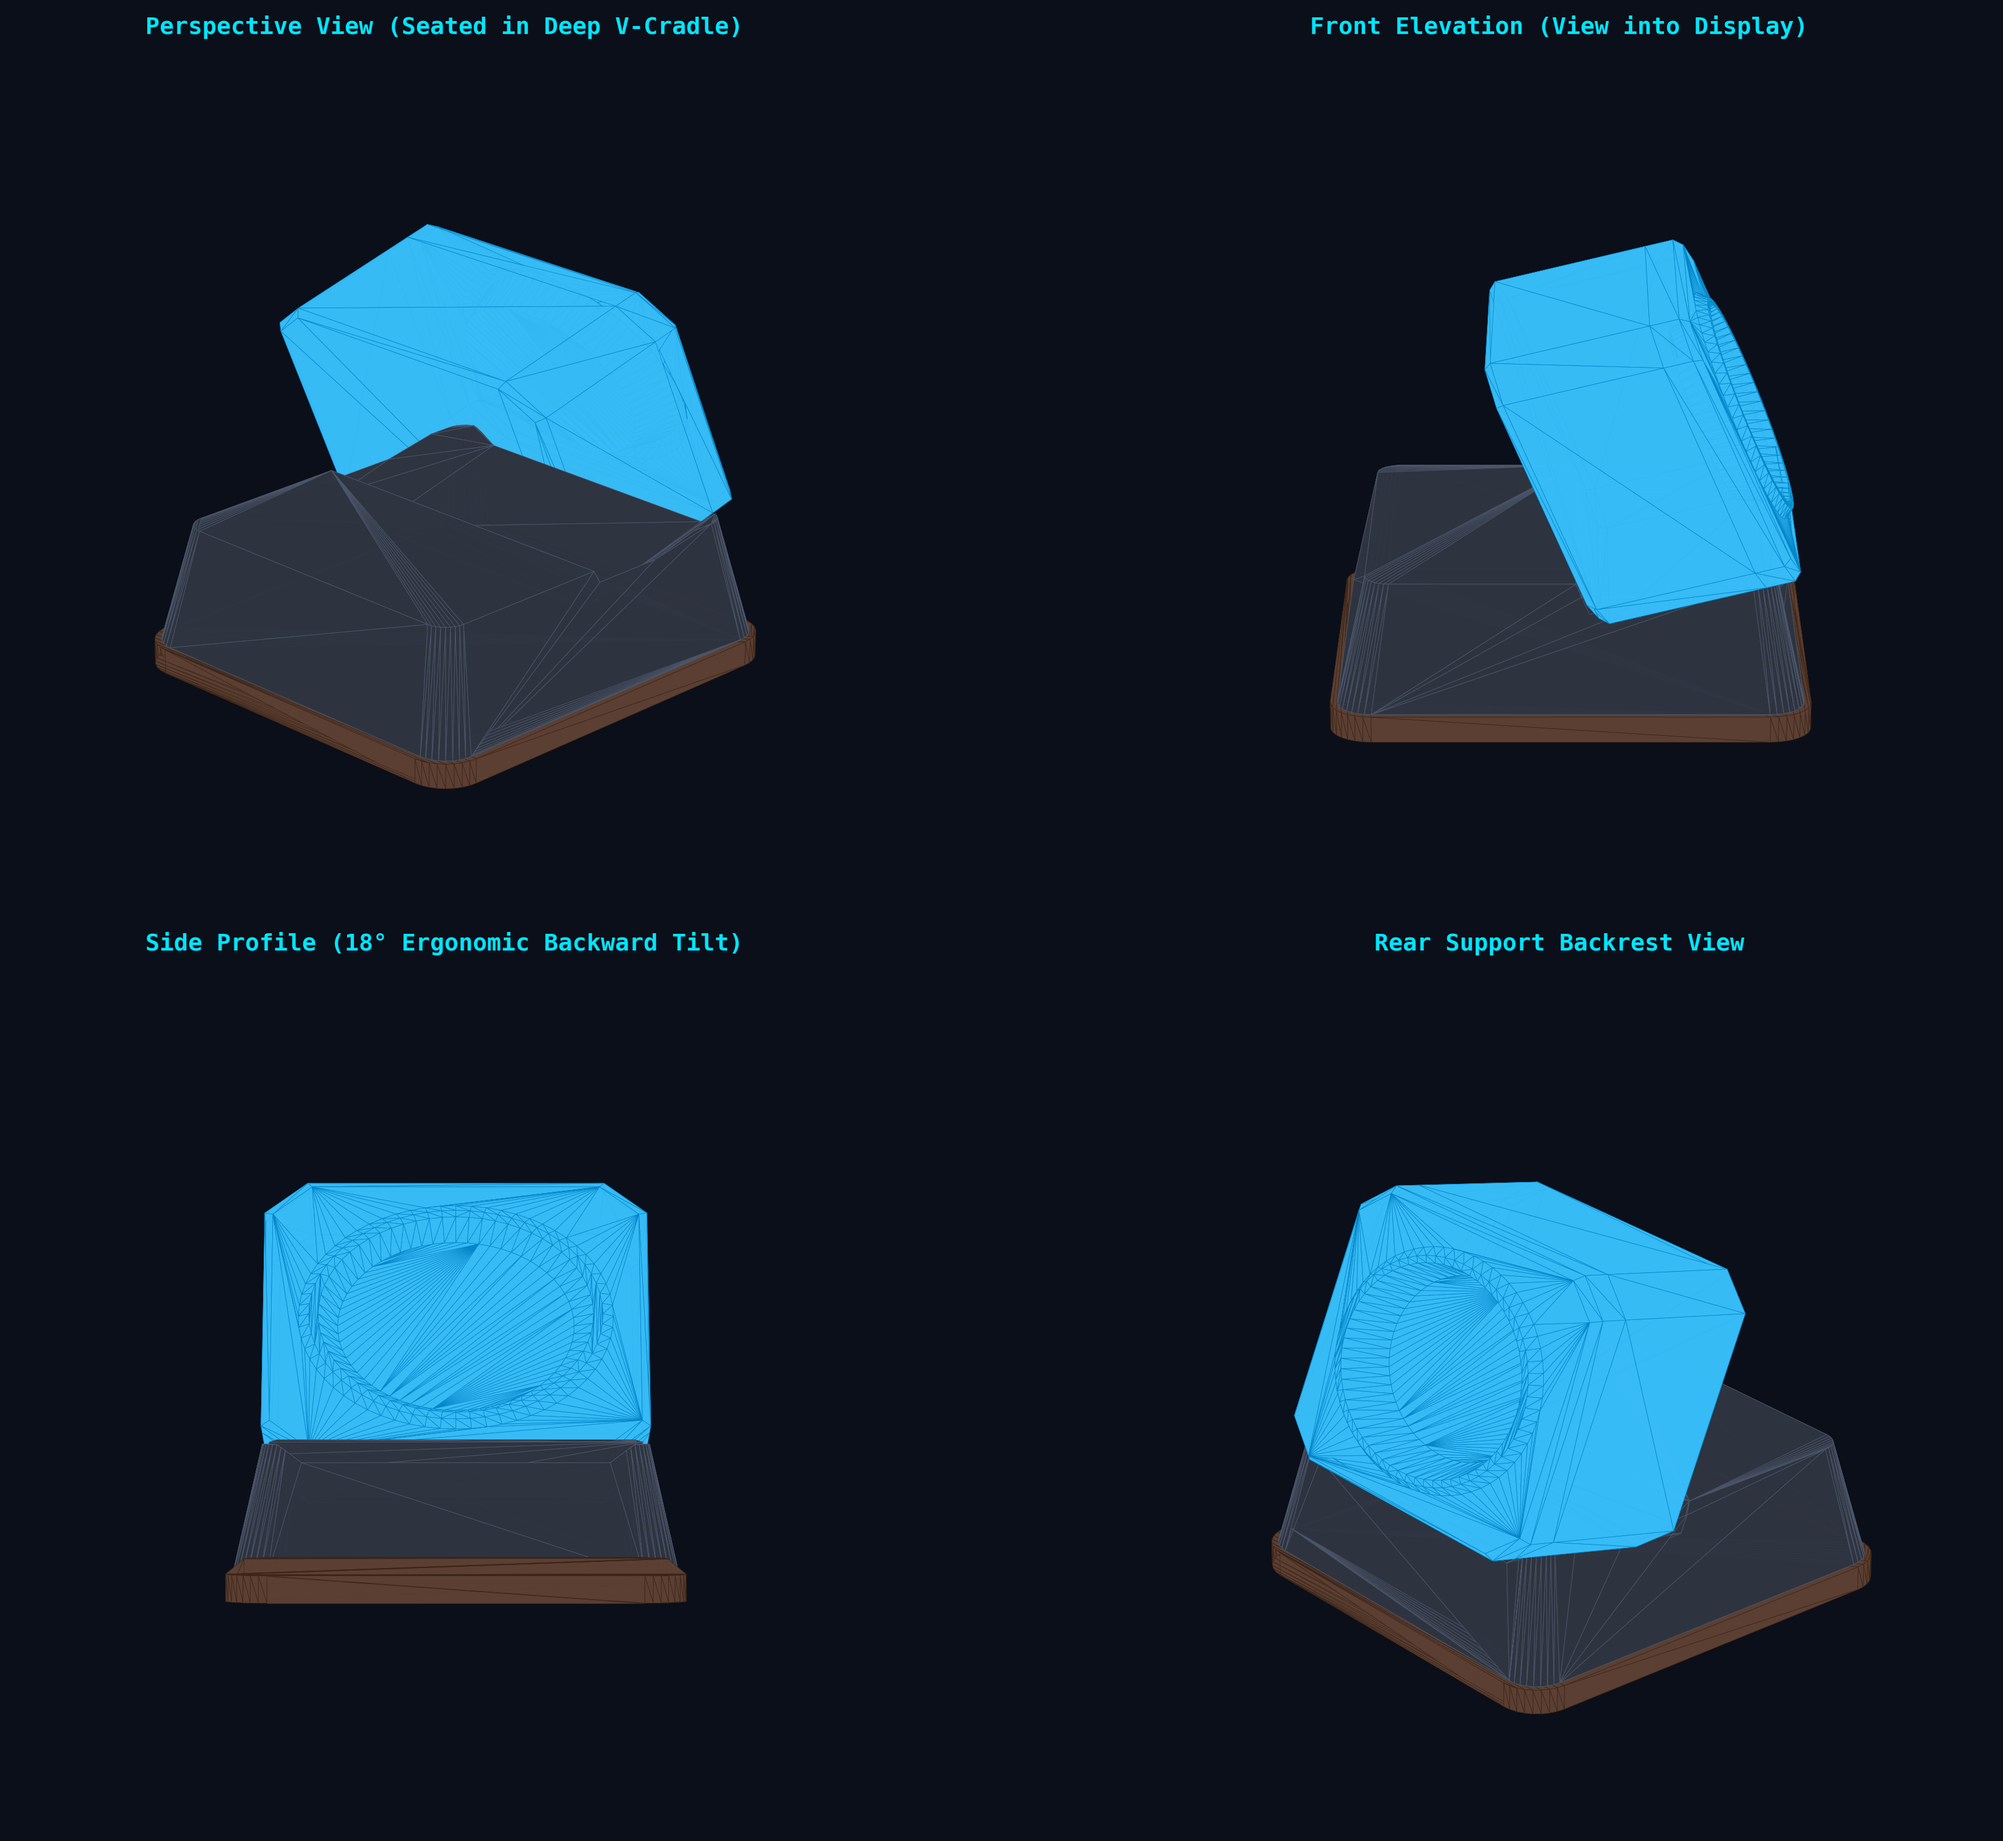
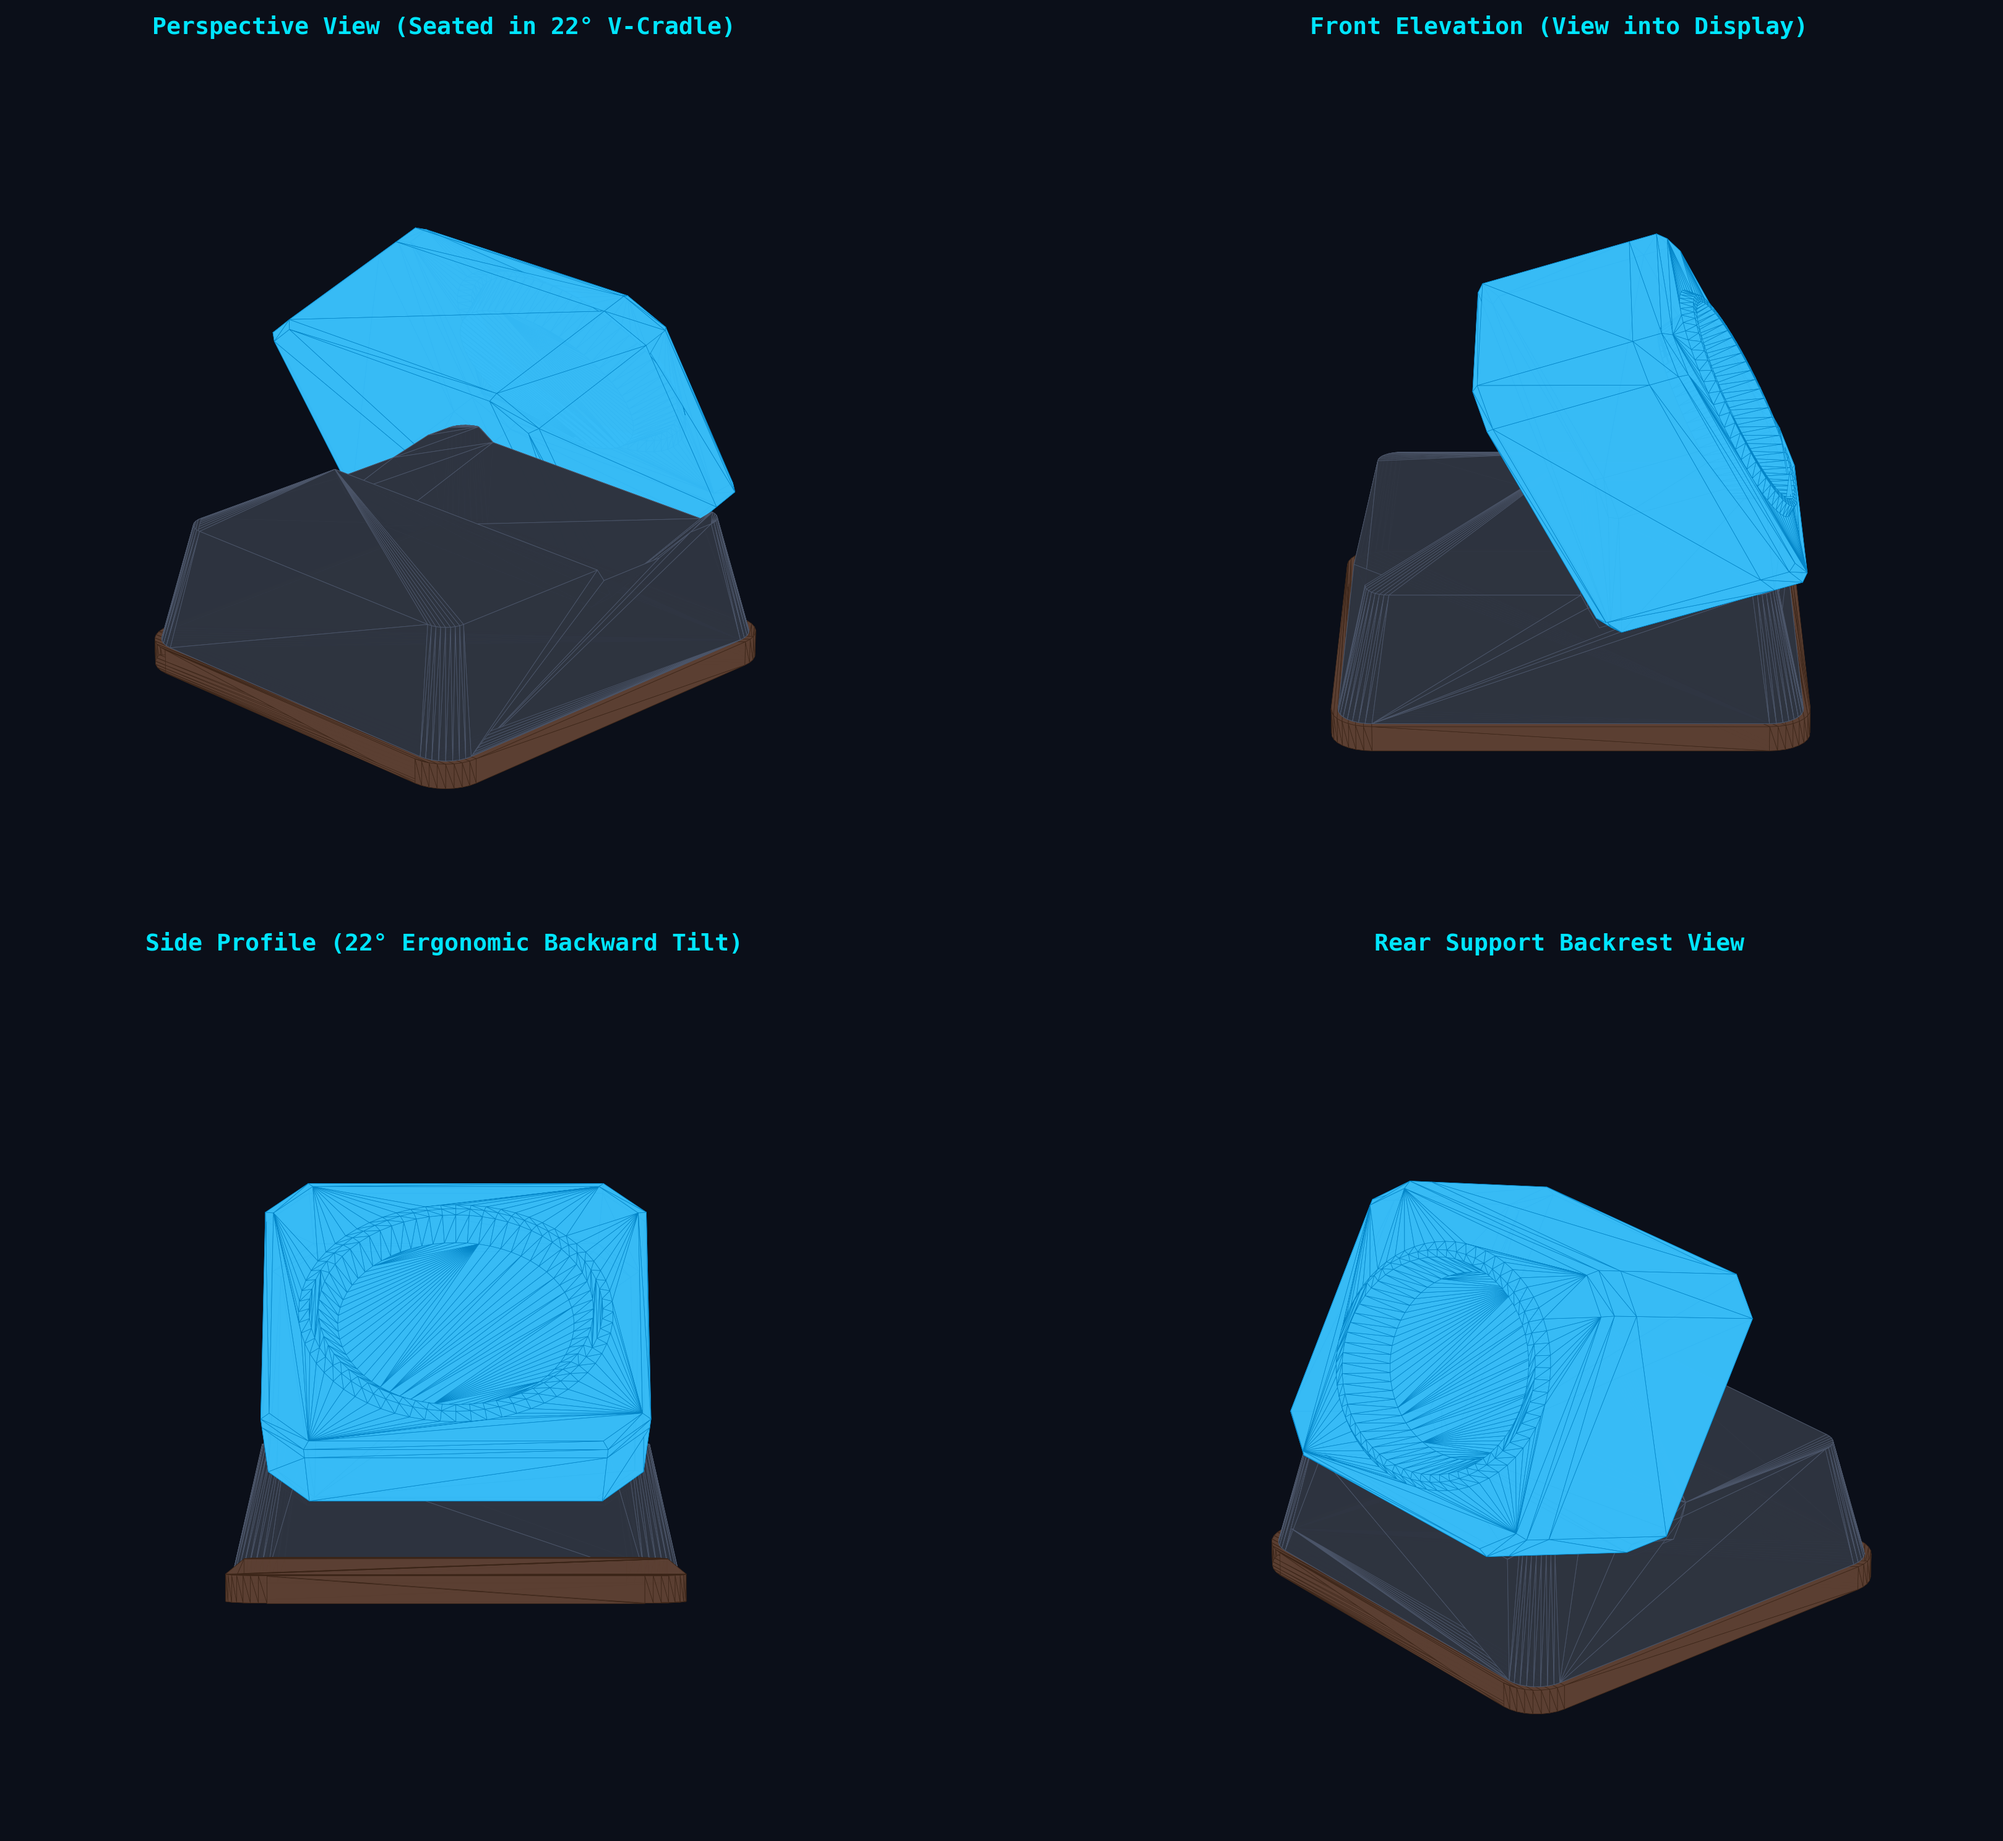
fix(enclosure): update stand cradle backward tilt angle to 22 degrees

diff --git a/round 240x240/enclosure/generate_technical_drawings.py b/round 240x240/enclosure/generate_technical_drawings.py
@@ -269,7 +269,7 @@ def generate_sheet_3_desk_stand(output_path):
     add_dim_line(ax, (cx + 27.4, cy - 15.6), (cx + 27.4, cy + 15.6), "31.20 SLOT D", offset=4, is_vertical=True, color='#ffd166')
 
     sx, sy = 275, 160
-    ax.text(sx, sy - 45, "VIEW B: SIDE ELEVATION & 18° CRADLE", color='#00e5ff', fontsize=10, fontweight='bold', ha='center', family='monospace')
+    ax.text(sx, sy - 45, "VIEW B: SIDE ELEVATION & 22° CRADLE", color='#00e5ff', fontsize=10, fontweight='bold', ha='center', family='monospace')
     
     ax.add_patch(Rectangle((sx - 34, sy - 15), 68, 5, fill=True, facecolor='#162032', edgecolor='#00e5ff', linewidth=1.2))
     
@@ -283,7 +283,7 @@ def generate_sheet_3_desk_stand(output_path):
     ]
     ax.add_patch(Polygon(stand_side_pts, fill=True, facecolor='#1f2d42', edgecolor='#4cc9f0', linewidth=1.5))
     
-    ax.annotate("18.0° ERGONOMIC TILT\n54.8 x 31.2mm SLIDING CRADLE\n11.5mm SEATING POCKET", xy=(sx - 6, sy + 6), xytext=(sx + 8, sy + 25),
+    ax.annotate("22.0° ERGONOMIC TILT\n54.8 x 31.2mm SLIDING CRADLE\n12.0mm SEATING POCKET", xy=(sx - 6, sy + 6), xytext=(sx + 8, sy + 25),
                 arrowprops=dict(arrowstyle='->', color='#ffd166', lw=1.2),
                 color='#ffd166', fontsize=7.5, family='monospace', fontweight='bold')
                 
@@ -291,7 +291,7 @@ def generate_sheet_3_desk_stand(output_path):
     add_dim_line(ax, (sx - 34, sy - 15), (sx - 34, sy - 10), "5.00 TIER 1", offset=-8, is_vertical=True)
     add_dim_line(ax, (sx - 34, sy - 10), (sx - 34, sy + 14), "24.00 TRUNK H", offset=-8, is_vertical=True, color='#4cc9f0')
     
-    ax.text(20, 45, "MANUFACTURING NOTES:\n1. 18° V-SADDLE CRADLE OFFERS OPTIMAL DESKTOP VIEWING ANGLE WITH ZERO WOBBLE.\n2. 54.8 x 31.2mm CRADLE SLOT ACCOMMODATES FULL ASSEMBLED 30.0mm POD (BEZEL + BODY) WITH 1.2mm CLEARANCE.\n3. TIER 1 BASE (5mm) CAN BE PRINTED IN DUAL MATERIAL / WOOD PLA AS A SEPARATE ACCENT PLATE.\n4. 4x UNDERSIDE RECESSES (Ø8.2mm x 1.5mm DP) FIT STANDARD ADHESIVE SILICONE FEET.",
+    ax.text(20, 45, "MANUFACTURING NOTES:\n1. 22° V-SADDLE CRADLE OFFERS OPTIMAL DESKTOP VIEWING ANGLE WITH ZERO WOBBLE.\n2. 54.8 x 31.2mm CRADLE SLOT ACCOMMODATES FULL ASSEMBLED 30.0mm POD (BEZEL + BODY) WITH 1.2mm CLEARANCE.\n3. TIER 1 BASE (5mm) CAN BE PRINTED IN DUAL MATERIAL / WOOD PLA AS A SEPARATE ACCENT PLATE.\n4. 4x UNDERSIDE RECESSES (Ø8.2mm x 1.5mm DP) FIT STANDARD ADHESIVE SILICONE FEET.",
             color='#8ecae6', fontsize=7.5, family='monospace', va='top')
             
     fig.savefig(output_path, bbox_inches='tight', dpi=300)

diff --git a/round 240x240/enclosure/generate_stl.py b/round 240x240/enclosure/generate_stl.py
@@ -294,12 +294,12 @@ def generate_stand_tier2_trunk():
     Tier 2 Cradle Trunk (Monolithic Truncated Trapezoidal Pedestal with Deep V-Saddle):
     - Base: 62.0mm x 66.0mm -> Top: 54.0mm x 58.0mm (24.0mm height, total stand height = 29.0mm)
     - Solid sloping front chin and continuous draft angles matching 3D concept render
-    - Deep V-saddle cradle slot (54.8mm W x 31.2mm D x 11.5mm seating depth) holding the full 30.0mm pod at 18.0° backward tilt
+    - Deep V-saddle cradle slot (54.8mm W x 31.2mm D x 12.0mm seating depth) holding the full 30.0mm pod at 22.0° backward tilt
     - 4 underside mating socket holes (dia = 5.4mm x 4.1mm deep)
     """
     base_h = 5.0
     trunk_h = 24.0
-    tilt_deg = 18.0
+    tilt_deg = 22.0
     rot_angles = [90.0 - tilt_deg, 0.0, 180.0]
     pin_dist_x = 20.0
     pin_dist_y = 21.0
@@ -352,10 +352,10 @@ def generate_stand_tier2_trunk():
     poly_c = m3d.CrossSection([pts_c])
     pod_cutter_dummy = m3d.Manifold.extrude(poly_c, slot_depth)
     
-    # Position cradle pocket on pedestal (seated 11.5mm into trunk):
+    # Position cradle pocket on pedestal (seated 12.0mm into trunk at 22° tilt):
     pod_rot = pod_cutter_dummy.rotate(rot_angles)
     z_min_pod = pod_rot.to_mesh().vert_properties[:, 2].min()
-    seat_depth = 11.5
+    seat_depth = 12.0
     y_offset = -4.0
     tz = float(base_h + trunk_h - seat_depth - z_min_pod)
     trans = [0.0, y_offset, tz]
@@ -369,7 +369,7 @@ def generate_monolithic_desk_stand():
     base_d = 68.0
     base_h = 5.0
     trunk_h = 24.0
-    tilt_deg = 18.0
+    tilt_deg = 22.0
     rot_angles = [90.0 - tilt_deg, 0.0, 180.0]
     
     tier1_solid = make_rounded_rect_prism(base_w, base_d, base_h, 6.0)
@@ -413,7 +413,7 @@ def generate_monolithic_desk_stand():
     
     pod_rot = pod_cutter_dummy.rotate(rot_angles)
     z_min_pod = pod_rot.to_mesh().vert_properties[:, 2].min()
-    seat_depth = 11.5
+    seat_depth = 12.0
     y_offset = -4.0
     tz = float(base_h + trunk_h - seat_depth - z_min_pod)
     trans = [0.0, y_offset, tz]

diff --git a/round 240x240/enclosure/TECHNICAL_DRAWINGS.md b/round 240x240/enclosure/TECHNICAL_DRAWINGS.md
@@ -44,7 +44,7 @@ Comprehensive mechanical engineering drawing sheets and dimensional specificatio
 
 * **Tier 1 Base Plate:** $64.00\text{mm} \text{ wide} \times 68.00\text{mm} \text{ deep} \times 5.00\text{mm} \text{ height}$ with $R = 6.00\text{mm}$ rounded corners and $4 \times$ upward alignment pins ($\varnothing 5.00\text{mm} \times 3.50\text{mm}$).
 * **Tier 2 Pyramidal Trunk:** $24.00\text{mm}$ height ($62.0\times 66.0\text{mm}$ base tapering to $54.0\times 58.0\text{mm}$ top) for a $29.00\text{mm}$ total stand height.
-* **Cradle Sliding Slot:** $54.80\text{mm} \text{ wide} \times 31.20\text{mm} \text{ depth} \times 11.50\text{mm} \text{ seating pocket}$ at an ergonomic **$18.0^\circ$ backward tilt**, accommodating the full $30.00\text{mm}$ assembled pod (housing + bezel) with $1.20\text{mm}$ smooth slide clearance.
+* **Cradle Sliding Slot:** $54.80\text{mm} \text{ wide} \times 31.20\text{mm} \text{ depth} \times 12.00\text{mm} \text{ seating pocket}$ at an ergonomic **$22.0^\circ$ backward tilt**, accommodating the full $30.00\text{mm}$ assembled pod (housing + bezel) with $1.20\text{mm}$ smooth slide clearance.
 * **Anti-Slip Rubber Foot Recesses:** $4 \times \varnothing 8.20\text{mm} \times 1.50\text{mm}$ deep on underside ($X = \pm 22.00\text{mm}, Y = \pm 24.00\text{mm}$).
 
 ---
